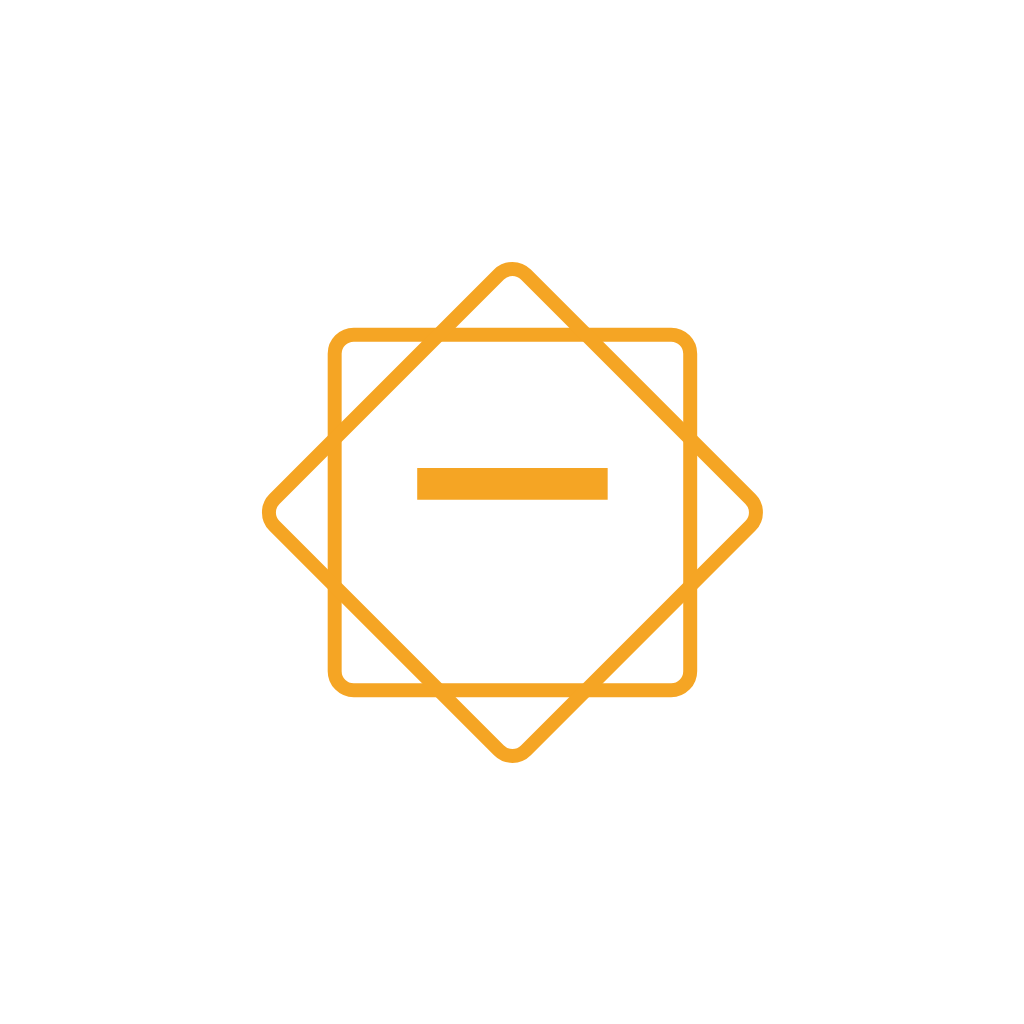
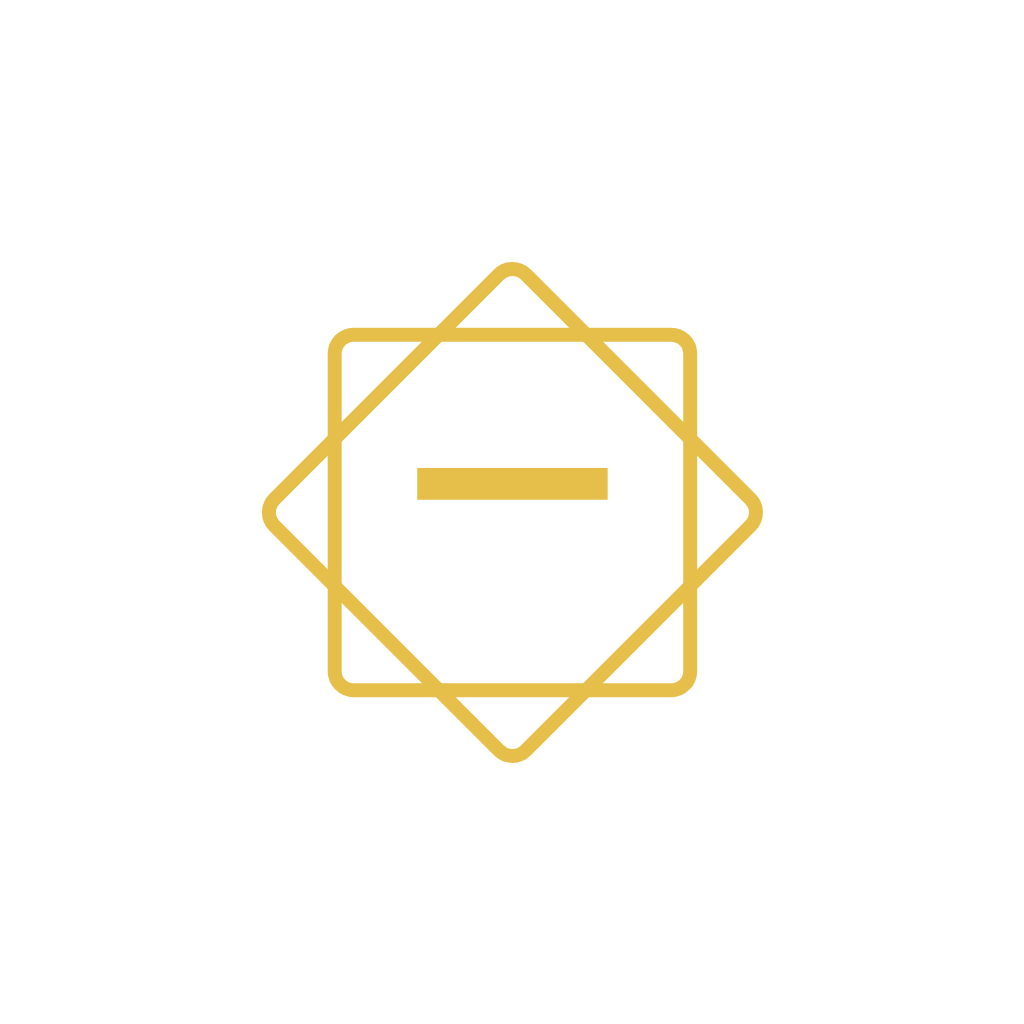
Recolour the app in emerald, light green and gold with a star pattern
The palette moves from indigo on grey to emerald on a very light green,
with gold highlights. Banners and the lock screen carry a tiled
eight-pointed-star pattern. Gold shades were tuned so text on and over
them stays readable, and a test now checks the palette's contrast.
The app icon, splash screen and admin console are recoloured to match.

Claude-Session: https://claude.ai/code/session_012bvUdzWcZKxwcCF6mN9exZ

Changed region(s): [[0.25, 0.25, 0.75, 0.75], [0.4062, 0.4375, 0.5938, 0.5]]

diff --git a/mobile/src/components/motion.tsx b/mobile/src/components/motion.tsx
@@ -108,8 +108,27 @@ export function SkeletonList({ count = 3 }: { count?: number }) {
   );
 }
 
-/** Soft circles that drift slowly behind a banner's content. Purely decorative. */
-export function FloatingShapes({ color = '#ffffff1a' }: { color?: string }) {
+const TILE = 44;
+
+/**
+ * A tiled pattern of eight-pointed stars (two overlapping squares), the motif
+ * found throughout Islamic geometric art. Fills its parent; purely decorative.
+ */
+export function StarPattern({ color = colors.patternGold, count = 54 }: { color?: string; count?: number }) {
+  return (
+    <View pointerEvents="none" accessibilityElementsHidden importantForAccessibility="no-hide-descendants" style={[StyleSheet.absoluteFill, s.pattern]}>
+      {Array.from({ length: count }, (_, i) => (
+        <View key={i} style={s.tile}>
+          <View style={[s.star, { borderColor: color }]} />
+          <View style={[s.star, { borderColor: color, transform: [{ rotate: '45deg' }] }]} />
+        </View>
+      ))}
+    </View>
+  );
+}
+
+/** A banner's backdrop: the star pattern with soft circles drifting slowly over it. Purely decorative. */
+export function FloatingShapes({ color = '#ffffff1a', pattern = colors.patternGold }: { color?: string; pattern?: string }) {
   const reduce = useReduceMotion();
   const slow = useLoop(4200, !reduce);
   const slower = useLoop(6000, !reduce);
@@ -117,6 +136,7 @@ export function FloatingShapes({ color = '#ffffff1a' }: { color?: string }) {
   const down = slower.interpolate({ inputRange: [0, 1], outputRange: [0, 16] });
   return (
     <View pointerEvents="none" style={StyleSheet.absoluteFill}>
+      <StarPattern color={pattern} />
       <Animated.View style={[s.shape, { width: 190, height: 190, right: -60, top: -70, backgroundColor: color, transform: [{ translateY: up }] }]} />
       <Animated.View style={[s.shape, { width: 110, height: 110, right: 70, bottom: -60, backgroundColor: color, transform: [{ translateY: down }] }]} />
       <Animated.View style={[s.shape, { width: 60, height: 60, left: -20, bottom: -24, backgroundColor: color, transform: [{ translateY: up }] }]} />
@@ -145,6 +165,9 @@ export function ProgressBar({ value, color = colors.brand700, label }: { value: 
 
 const s = StyleSheet.create({
   shape: { position: 'absolute', borderRadius: 999 },
+  pattern: { flexDirection: 'row', flexWrap: 'wrap', overflow: 'hidden' },
+  tile: { width: TILE, height: TILE, alignItems: 'center', justifyContent: 'center' },
+  star: { position: 'absolute', width: TILE * 0.5, height: TILE * 0.5, borderWidth: 1 },
   skeletonCard: { backgroundColor: colors.white, borderRadius: radius.lg, padding: space.lg, gap: space.md, borderWidth: 1, borderColor: '#0000000d' },
   track: { height: 8, borderRadius: radius.pill, backgroundColor: colors.slateBg, overflow: 'hidden' },
 });

diff --git a/mobile/src/components/AdCarousel.tsx b/mobile/src/components/AdCarousel.tsx
@@ -6,10 +6,10 @@ import { colors, radius, space } from '@/theme';
 
 import { FloatingShapes, PressableScale, useReduceMotion } from './motion';
 
-const THEMES: Record<string, { bg: string; fg: string; soft: string; button: string; buttonText: string; shape: string }> = {
-  brand: { bg: colors.brand700, fg: colors.white, soft: colors.brand100, button: colors.gold400, buttonText: colors.brand900, shape: '#ffffff14' },
-  gold: { bg: colors.gold100, fg: colors.text, soft: colors.gold600, button: colors.brand700, buttonText: colors.white, shape: '#f5a52433' },
-  night: { bg: '#171a2e', fg: colors.white, soft: '#b9bfdc', button: colors.white, buttonText: '#171a2e', shape: '#ffffff12' },
+const THEMES: Record<string, { bg: string; fg: string; soft: string; button: string; buttonText: string; shape: string; pattern: string }> = {
+  brand: { bg: colors.brand700, fg: colors.white, soft: colors.brand100, button: colors.gold400, buttonText: colors.brand900, shape: '#ffffff14', pattern: colors.patternGold },
+  gold: { bg: colors.gold100, fg: colors.brand900, soft: colors.gold600, button: colors.brand700, buttonText: colors.white, shape: '#e6bf4a40', pattern: colors.patternEmerald },
+  night: { bg: colors.brand900, fg: colors.white, soft: colors.brand200, button: colors.gold400, buttonText: colors.brand900, shape: '#ffffff12', pattern: colors.patternGold },
 };
 
 /**
@@ -55,7 +55,7 @@ export function AdCarousel({ ads, onPress, intervalMs = 5000 }: { ads: Ad[]; onP
               disabled={!linked}
               onPress={() => onPress(ad)}
               style={[s.card, { width: width || undefined, backgroundColor: t.bg }]}>
-              <FloatingShapes color={t.shape} />
+              <FloatingShapes color={t.shape} pattern={t.pattern} />
               <Text style={[s.sponsor, { color: t.soft }]}>SPONSORED · {ad.advertiser.toUpperCase()}</Text>
               <Text style={[s.headline, { color: t.fg }]} numberOfLines={2}>
                 {ad.headline}

diff --git a/mobile/src/components/motion.test.tsx b/mobile/src/components/motion.test.tsx
@@ -1,7 +1,7 @@
 import { act, fireEvent, render, screen, userEvent } from '@testing-library/react-native';
 import { AccessibilityInfo, Animated, Text } from 'react-native';
 
-import { FadeInUp, PressableScale, ProgressBar, SkeletonList, stagger } from './motion';
+import { FadeInUp, FloatingShapes, PressableScale, ProgressBar, SkeletonList, stagger, StarPattern } from './motion';
 
 afterEach(() => {
   jest.restoreAllMocks();
@@ -107,5 +107,26 @@ describe('SkeletonList / stagger', () => {
 
   it('staggers the first few list items and then stops adding delay', () => {
     expect([0, 1, 2, 6, 7, 40].map((i) => stagger(i))).toEqual([0, 60, 120, 360, 360, 360]);
+  });
+});
+
+describe('StarPattern', () => {
+  it('tiles eight-pointed stars, each drawn as two squares with one turned 45 degrees', async () => {
+    const view = await render(<StarPattern color="#f3d57a40" count={6} />);
+    const tree = JSON.stringify(view.toJSON());
+    expect(tree.match(/"rotate":"45deg"/g)).toHaveLength(6);
+    expect(tree.match(/"borderColor":"#f3d57a40"/g)).toHaveLength(12);
+  });
+
+  it('is hidden from screen readers and never intercepts touches', async () => {
+    const view = await render(<StarPattern count={1} />);
+    const root = view.toJSON() as { props: Record<string, unknown> };
+    expect(root.props.pointerEvents).toBe('none');
+    expect(root.props.accessibilityElementsHidden).toBe(true);
+  });
+
+  it('is part of every banner backdrop, in the colour the banner asks for', async () => {
+    const view = await render(<FloatingShapes pattern="#0478571f" />);
+    expect(JSON.stringify(view.toJSON())).toContain('"borderColor":"#0478571f"');
   });
 });

diff --git a/mobile/src/theme.test.ts b/mobile/src/theme.test.ts
@@ -1,0 +1,32 @@
+import { colors } from './theme';
+
+/** WCAG relative luminance and contrast ratio, for checking text stays readable on the palette. */
+function luminance(hex: string) {
+  const [r, g, b] = [1, 3, 5].map((i) => {
+    const c = parseInt(hex.slice(i, i + 2), 16) / 255;
+    return c <= 0.03928 ? c / 12.92 : ((c + 0.055) / 1.055) ** 2.4;
+  });
+  return 0.2126 * r + 0.7152 * g + 0.0722 * b;
+}
+function contrast(a: string, b: string) {
+  const [hi, lo] = [luminance(a), luminance(b)].sort((x, y) => y - x);
+  return (hi + 0.05) / (lo + 0.05);
+}
+
+describe('colour palette', () => {
+  it.each([
+    ['white text on the emerald used for headers and primary buttons', colors.white, colors.brand700],
+    ['body text on the light green page', colors.text, colors.sand],
+    ['body text on white cards', colors.text, colors.white],
+    ['muted text on the light green page', colors.muted, colors.sand],
+    ['dark green text on gold buttons', colors.brand900, colors.gold400],
+    ['headings on the light green page', colors.brand900, colors.sand],
+    ['gold label text on its pale gold background', colors.gold600, colors.gold100],
+  ])('%s is readable (contrast at least 4.5:1)', (_what, fg, bg) => {
+    expect(contrast(fg, bg)).toBeGreaterThanOrEqual(4.5);
+  });
+
+  it('keeps gold lettering legible on emerald banners (large text, at least 3:1)', () => {
+    expect(contrast(colors.gold400, colors.brand700)).toBeGreaterThanOrEqual(3);
+  });
+});

diff --git a/mobile/src/theme.ts b/mobile/src/theme.ts
@@ -1,29 +1,32 @@
 /**
- * Light grey surfaces with an indigo accent and a warm amber highlight.
- * The `brand*` scale is the accent; change it here to recolour the whole app.
+ * Emerald green on light green surfaces, with gold highlights.
+ * The `brand*` scale is the emerald; change it here to recolour the whole app.
  */
 export const colors = {
-  brand50: '#eef1fd',
-  brand100: '#e0e5fb',
-  brand200: '#c3cbf7',
-  brand600: '#4f56d3',
-  brand700: '#3f44b8',
-  brand800: '#33378f',
-  brand900: '#1f2257',
-  gold100: '#fdf0d5',
-  gold400: '#f5a524',
-  gold600: '#a15c00',
-  /** The page background. */
-  sand: '#f2f3f7',
+  brand50: '#ecfdf5',
+  brand100: '#d1fae5',
+  brand200: '#a7f3d0',
+  brand600: '#059669',
+  brand700: '#047857',
+  brand800: '#065f46',
+  brand900: '#064e3b',
+  gold100: '#fbf1d3',
+  gold400: '#e6bf4a',
+  gold600: '#7a5c0c',
+  /** The page background: a very light green. */
+  sand: '#f0f9f4',
   white: '#ffffff',
-  text: '#1b1d2a',
-  muted: '#667085',
-  border: '#e3e5ec',
+  text: '#12241c',
+  muted: '#5b6f66',
+  border: '#d6e7dd',
   danger: '#b91c1c',
   dangerBg: '#fef2f2',
   amber: '#92400e',
   amberBg: '#fef3c7',
-  slateBg: '#e4e7ec',
+  slateBg: '#dfece5',
+  /** Translucent tints for the star pattern drawn over banners and backgrounds. */
+  patternGold: '#f3d57a2b',
+  patternEmerald: '#0478571f',
 } as const;
 
 export const space = { xs: 4, sm: 8, md: 12, lg: 16, xl: 24 } as const;

diff --git a/server/src/app/globals.css b/server/src/app/globals.css
@@ -1,18 +1,18 @@
 @import "tailwindcss";
 
 @theme {
-  --color-brand-50: #eef1fd;
-  --color-brand-100: #e0e5fb;
-  --color-brand-200: #c3cbf7;
-  --color-brand-500: #6268e0;
-  --color-brand-600: #4f56d3;
-  --color-brand-700: #3f44b8;
-  --color-brand-800: #33378f;
-  --color-brand-900: #1f2257;
-  --color-gold-100: #fdf0d5;
-  --color-gold-400: #f5a524;
-  --color-gold-600: #a15c00;
-  --color-sand: #f2f3f7;
+  --color-brand-50: #ecfdf5;
+  --color-brand-100: #d1fae5;
+  --color-brand-200: #a7f3d0;
+  --color-brand-500: #10b981;
+  --color-brand-600: #059669;
+  --color-brand-700: #047857;
+  --color-brand-800: #065f46;
+  --color-brand-900: #064e3b;
+  --color-gold-100: #fbf1d3;
+  --color-gold-400: #e6bf4a;
+  --color-gold-600: #7a5c0c;
+  --color-sand: #f0f9f4;
   --font-sans: ui-sans-serif, system-ui, -apple-system, "Segoe UI", Roboto, "Helvetica Neue", Arial, sans-serif;
   --font-arabic: "Amiri", "Scheherazade New", "Noto Naskh Arabic", "Traditional Arabic", serif;
 }
@@ -57,11 +57,11 @@ body {
   }
   .btn-gold {
     @apply bg-gold-400 text-slate-900 hover:brightness-105;
-    --ledge: #b9770a;
+    --ledge: #b08d1e;
   }
   .btn-ghost {
     @apply border border-slate-300 bg-white text-slate-700 hover:bg-slate-50;
-    --ledge: #c3c8d4;
+    --ledge: #b9cfc3;
   }
   .btn-danger {
     @apply border border-red-200 bg-white text-red-700 hover:bg-red-50;

diff --git a/mobile/src/components/ui.tsx b/mobile/src/components/ui.tsx
@@ -260,13 +260,13 @@ export const BUTTON_DEPTH_SMALL = 3;
 
 const buttonStyles = StyleSheet.create({
   // The lighter top edge reads as light catching the face.
-  primary: { backgroundColor: colors.brand700, borderTopWidth: 1, borderTopColor: '#6b70d9' },
-  gold: { backgroundColor: colors.gold400, borderTopWidth: 1, borderTopColor: '#ffc65c' },
-  ghost: { backgroundColor: colors.white, borderWidth: 1, borderColor: '#d5d9e3' },
+  primary: { backgroundColor: colors.brand700, borderTopWidth: 1, borderTopColor: '#34a37f' },
+  gold: { backgroundColor: colors.gold400, borderTopWidth: 1, borderTopColor: '#f3d57a' },
+  ghost: { backgroundColor: colors.white, borderWidth: 1, borderColor: '#cfe0d6' },
   danger: { backgroundColor: colors.white, borderWidth: 1, borderColor: '#f5b5b5' },
 });
 /** The darker ledge each face sits on. */
-const buttonLedges = { primary: colors.brand900, gold: '#b9770a', ghost: '#c3c8d4', danger: '#e39a9a' } as const;
+const buttonLedges = { primary: colors.brand900, gold: '#b08d1e', ghost: '#b9cfc3', danger: '#e39a9a' } as const;
 const buttonTextStyles = StyleSheet.create({
   primary: { color: colors.white },
   gold: { color: colors.text },

diff --git a/mobile/src/components/LockScreen.tsx b/mobile/src/components/LockScreen.tsx
@@ -6,6 +6,7 @@ import { ApiError, errorMessage } from '@/lib/api';
 import { useAuth } from '@/lib/auth';
 import { colors, space } from '@/theme';
 
+import { StarPattern } from './motion';
 import { PinPad } from './PinPad';
 import { Button } from './ui';
 
@@ -30,6 +31,7 @@ export function LockScreen() {
 
   return (
     <SafeAreaView style={{ flex: 1, backgroundColor: colors.sand }}>
+      <StarPattern color={colors.patternEmerald} count={180} />
       <ScrollView contentContainerStyle={{ flexGrow: 1, justifyContent: 'center', padding: space.xl, gap: space.md }}>
         <Text style={{ textAlign: 'center', color: colors.gold600, fontWeight: '700', letterSpacing: 1 }}>MY UMMAH</Text>
         {mustReset ? (

diff --git a/README.md b/README.md
@@ -26,7 +26,7 @@ server/   The API the app talks to, plus the platform owner's admin console (web
 
 The bottom bar has five tabs: Home, Umrah, Planner, Community, Account. The selected tab's icon springs up into a raised bubble. Inside Umrah, a switch separates **Services** (things you book) from **Guides** (things you read).
 
-The app uses light grey surfaces with an indigo accent (set in `mobile/src/theme.ts`; the admin console matches). Cards and sections animate in, lists load behind pulsing placeholders, banners have slowly drifting shapes, progress bars fill, buttons respond to touch, and the ad banner rotates on its own. All motion switches off when the phone is set to reduce motion.
+The app is emerald green on very light green surfaces with gold highlights, and banners carry a tiled eight-pointed-star pattern (colours in `mobile/src/theme.ts`; the admin console matches). Cards and sections animate in, lists load behind pulsing placeholders, banners have slowly drifting shapes, progress bars fill, buttons respond to touch, and the ad banner rotates on its own. All motion switches off when the phone is set to reduce motion.
 
 ### Adding a new kind of service provider
 
